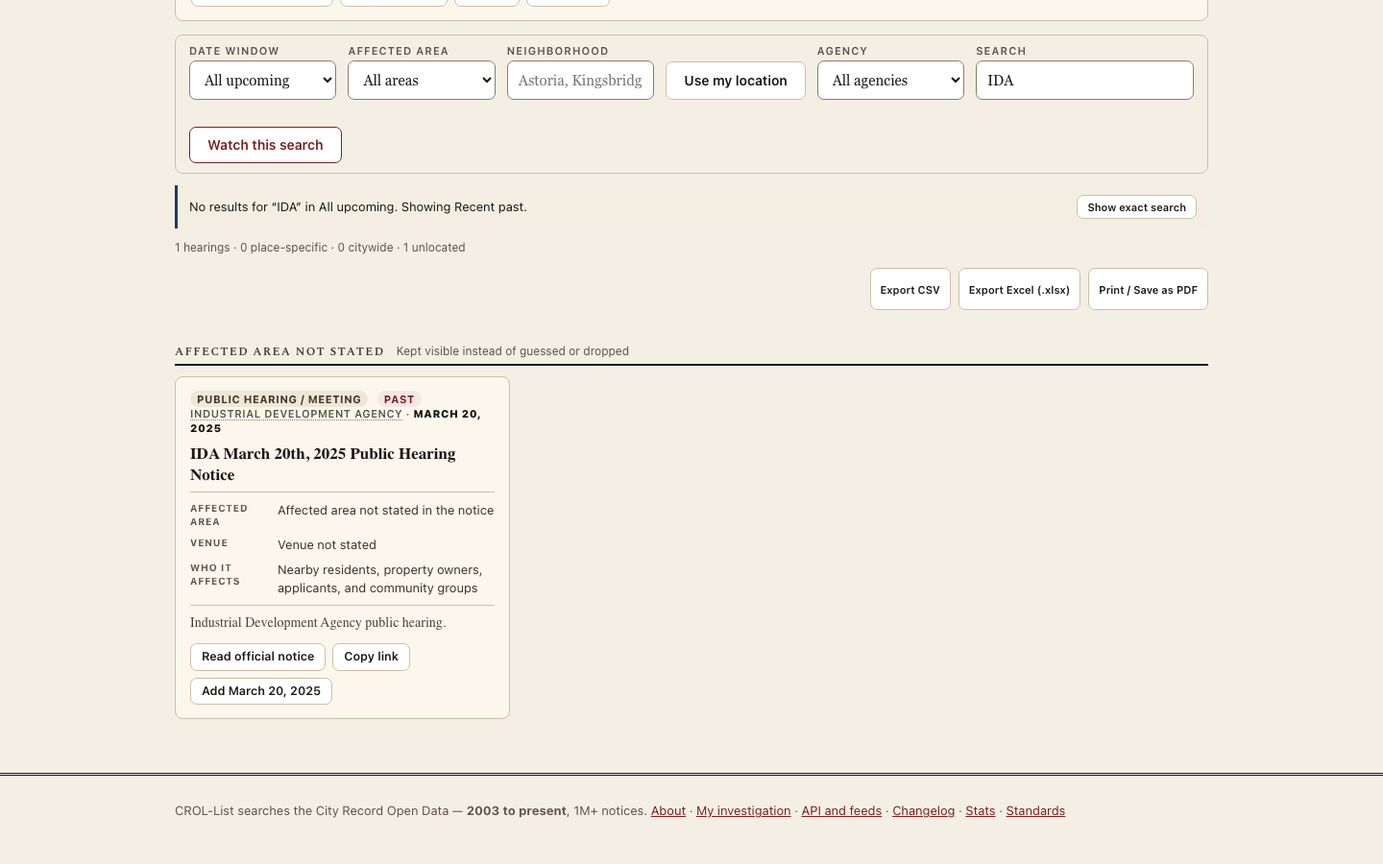
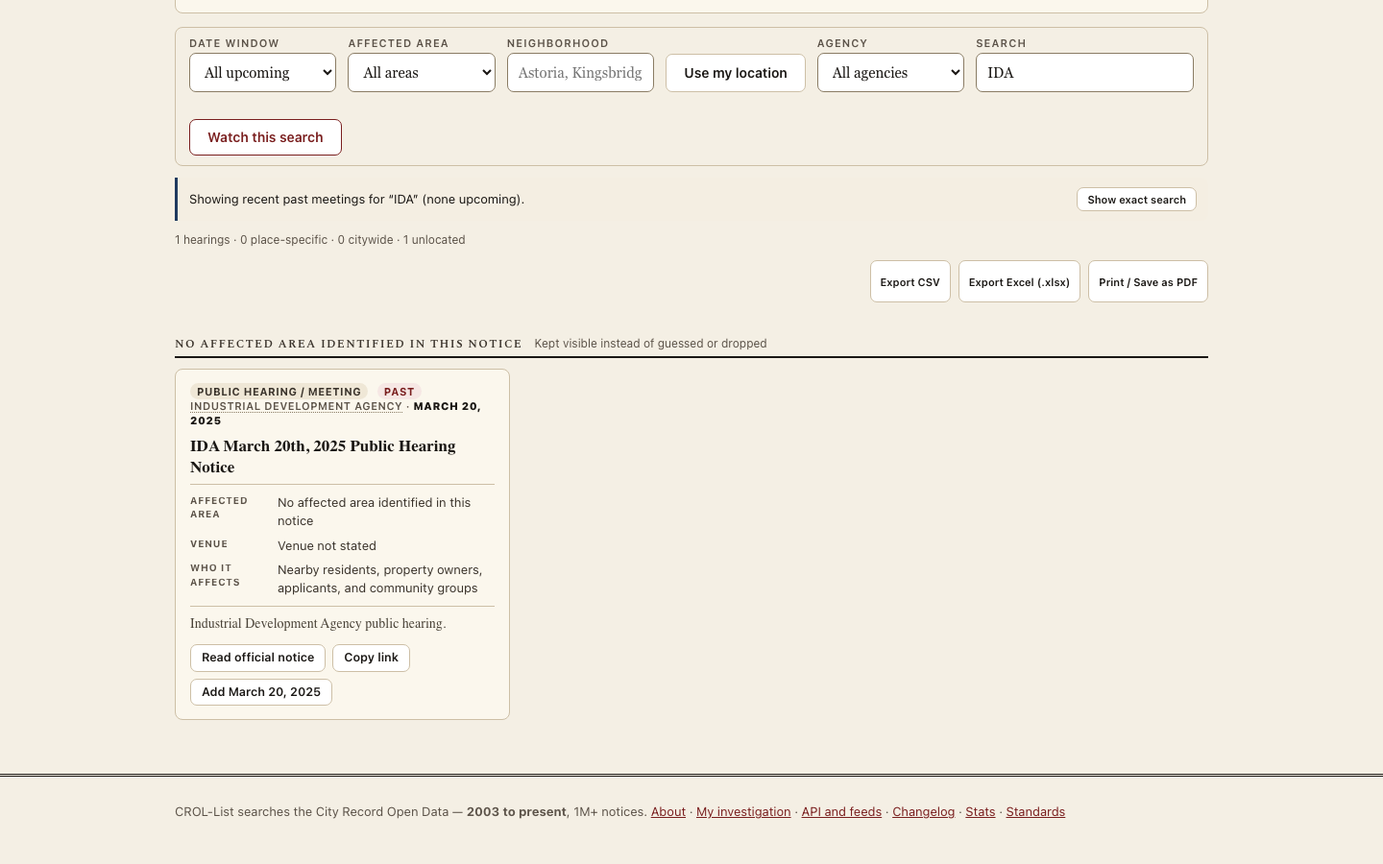
Lead widening notices with useful results

diff --git a/i18n/lang/bn.js b/i18n/lang/bn.js
@@ -33,10 +33,16 @@
     scenario_ida_past: "অতীতের IDA সভা",
     recent_past: "সাম্প্রতিক অতীত",
     this_search: "এই অনুসন্ধান",
-    meetings_widened_notice: "{original}-এ {query}-এর কোনো ফলাফল নেই। {shown} দেখানো হচ্ছে।",
+    meetings_widened_notice: "{query}-এর জন্য {shown} দেখানো হচ্ছে ({none})।",
+    meetings_shown_month: "এই মাসের সভা",
+    meetings_shown_upcoming: "আসন্ন সভা",
+    meetings_shown_past: "সাম্প্রতিক অতীতের সভা",
+    meetings_none_week: "এই সপ্তাহে কিছু নেই",
+    meetings_none_month: "এই মাসে কিছু নেই",
+    meetings_none_upcoming: "কোনো আসন্ন সভা নেই",
     show_exact_search: "সঠিক অনুসন্ধান দেখান",
     past_tag: "অতীত",
-    no_hearings_after_widening: "সাম্প্রতিক অতীতের সভা দেখার পরও কোনো মিল পাওয়া যায়নি। আরও দেখতে একটি ফিল্টার সরান।",
+    no_hearings_after_widening: "অনুসন্ধানের পরিসর বাড়ান। এই অনুসন্ধানে আসন্ন বা সাম্প্রতিক অতীতের কোনো সভা মেলেনি।",
     footer_notices: "১০ লক্ষের বেশি নোটিশ",
     sugg_money_0: "$500k-এর বেশি নির্মাণ চুক্তি",
     sugg_money_1: "আইটি পরামর্শ RFP",
@@ -234,7 +240,7 @@
     unlocated_hearings_group: "এই বিজ্ঞপ্তিতে কোনো প্রভাবিত এলাকা শনাক্ত করা যায়নি",
     unlocated_hearings_note: "অনুমান বা বাদ না দিয়ে দৃশ্যমান রাখা হয়েছে",
     hearing_results_summary: "{n}টি শুনানি · {local}টি স্থানভিত্তিক · {citywide}টি শহরব্যাপী · {unlocated}টি অবস্থানহীন",
-    no_hearings_window: "এই তারিখ ও অবস্থানের সঙ্গে কোনো শুনানি মেলেনি। পরবর্তী ৩০ দিন বা শহরব্যাপী / অবস্থানহীন বেছে দেখুন।",
+    no_hearings_window: "পরবর্তী ৩০ দিন বা শহরব্যাপী / অবস্থানহীন বেছে দেখুন। এই নির্দিষ্ট তারিখ ও এলাকায় কোনো সভা মেলেনি।",
     desc_affecting_area: " {area}-কে প্রভাবিত করে",
     near_you_area: "আপনার কাছাকাছি → {area}",
     zip_addr_neighborhood: "জিপ কোড, ঠিকানা, বা এলাকা",

diff --git a/i18n/lang/ru.js b/i18n/lang/ru.js
@@ -33,10 +33,16 @@
     scenario_ida_past: "Прошедшие заседания IDA",
     recent_past: "Недавние прошедшие",
     this_search: "этот поиск",
-    meetings_widened_notice: "Нет результатов для {query} в диапазоне {original}. Показан диапазон {shown}.",
+    meetings_widened_notice: "Показаны {shown} для {query} ({none}).",
+    meetings_shown_month: "заседания этого месяца",
+    meetings_shown_upcoming: "предстоящие заседания",
+    meetings_shown_past: "недавние прошедшие заседания",
+    meetings_none_week: "на этой неделе ничего",
+    meetings_none_month: "в этом месяце ничего",
+    meetings_none_upcoming: "предстоящих нет",
     show_exact_search: "Показать точный поиск",
     past_tag: "Прошло",
-    no_hearings_after_widening: "Подходящих заседаний не найдено даже среди недавних прошедших. Уберите фильтр, чтобы увидеть больше.",
+    no_hearings_after_widening: "Расширьте поиск. Для этого запроса нет совпадений среди предстоящих или недавних прошедших заседаний.",
     footer_notices: "более 1 млн уведомлений",
     sugg_money_0: "строительные контракты свыше $500 тыс.",
     sugg_money_1: "запросы предложений (RFP) на ИТ-консалтинг",
@@ -234,7 +240,7 @@
     unlocated_hearings_group: "В этом объявлении не удалось определить затрагиваемую территорию",
     unlocated_hearings_note: "Оставлено видимым без догадок и исключения",
     hearing_results_summary: "{n} слушаний · {local} по месту · {citywide} общегородских · {unlocated} без места",
-    no_hearings_window: "Для этой даты и места слушаний нет. Попробуйте следующие 30 дней или «Весь город / место не указано».",
+    no_hearings_window: "Попробуйте следующие 30 дней или «Весь город / место не указано». Для этой точной даты и территории совпадений нет.",
     desc_affecting_area: " затрагивающие {area}",
     near_you_area: "рядом с вами → {area}",
     zip_addr_neighborhood: "Индекс, адрес или район",

diff --git a/i18n/lang/ar.js b/i18n/lang/ar.js
@@ -35,10 +35,16 @@
     scenario_ida_past: "اجتماعات IDA السابقة",
     recent_past: "الماضي القريب",
     this_search: "هذا البحث",
-    meetings_widened_notice: "لا نتائج لـ {query} ضمن {original}. نعرض {shown}.",
+    meetings_widened_notice: "نعرض {shown} لـ {query} ({none}).",
+    meetings_shown_month: "اجتماعات هذا الشهر",
+    meetings_shown_upcoming: "الاجتماعات القادمة",
+    meetings_shown_past: "الاجتماعات السابقة الحديثة",
+    meetings_none_week: "لا شيء هذا الأسبوع",
+    meetings_none_month: "لا شيء هذا الشهر",
+    meetings_none_upcoming: "لا اجتماعات قادمة",
     show_exact_search: "عرض البحث الدقيق",
     past_tag: "سابق",
-    no_hearings_after_widening: "لم يُعثر على اجتماعات مطابقة حتى بعد مراجعة الاجتماعات السابقة الحديثة. أزل مرشحًا لرؤية المزيد.",
+    no_hearings_after_widening: "وسّع نطاق البحث. لا توجد اجتماعات مطابقة قادمة أو سابقة حديثة لهذا البحث.",
     footer_notices: "أكثر من مليون إشعار",
     sugg_money_0: "عقود إنشاءات تفوق 500 ألف دولار",
     sugg_money_1: "طلبات تقديم عروض (RFP) لاستشارات تقنية المعلومات",
@@ -237,7 +243,7 @@
     unlocated_hearings_group: "لم نحدد منطقة متأثرة في هذا الإشعار",
     unlocated_hearings_note: "أبقيناها ظاهرة بدل التخمين أو الحذف",
     hearing_results_summary: "{n} جلسات · {local} مرتبطة بمكان · {citywide} على مستوى المدينة · {unlocated} بلا موقع",
-    no_hearings_window: "لا توجد جلسات تطابق هذا التاريخ والموقع. جرّب الثلاثين يومًا القادمة أو على مستوى المدينة / بلا موقع.",
+    no_hearings_window: "جرّب الثلاثين يومًا القادمة أو على مستوى المدينة / بلا موقع. لا توجد اجتماعات مطابقة لهذا التاريخ والنطاق المحددين.",
     desc_affecting_area: " تؤثر في {area}",
     near_you_area: "بالقرب منك ← {area}",
     zip_addr_neighborhood: "الرمز البريدي أو العنوان أو الحي",

diff --git a/i18n/lang/ur.js b/i18n/lang/ur.js
@@ -35,10 +35,16 @@
     scenario_ida_past: "گزشتہ IDA میٹنگز",
     recent_past: "حالیہ ماضی",
     this_search: "یہ تلاش",
-    meetings_widened_notice: "{original} میں {query} کے لیے کوئی نتیجہ نہیں۔ {shown} دکھایا جا رہا ہے۔",
+    meetings_widened_notice: "{query} کے لیے {shown} دکھائے جا رہے ہیں ({none})۔",
+    meetings_shown_month: "اس ماہ کی میٹنگز",
+    meetings_shown_upcoming: "آنے والی میٹنگز",
+    meetings_shown_past: "حالیہ گزشتہ میٹنگز",
+    meetings_none_week: "اس ہفتے کوئی نہیں",
+    meetings_none_month: "اس ماہ کوئی نہیں",
+    meetings_none_upcoming: "کوئی آنے والی نہیں",
     show_exact_search: "عین تلاش دکھائیں",
     past_tag: "گزشتہ",
-    no_hearings_after_widening: "حالیہ گزشتہ میٹنگز دیکھنے کے بعد بھی کوئی مماثل میٹنگ نہیں ملی۔ مزید دیکھنے کے لیے ایک فلٹر ہٹائیں۔",
+    no_hearings_after_widening: "تلاش کو وسیع کریں۔ اس تلاش میں آنے والی یا حالیہ گزشتہ کوئی مماثل میٹنگ نہیں ہے۔",
     footer_notices: "10 لاکھ سے زیادہ نوٹسز",
     sugg_money_0: "$500k سے زیادہ کے تعمیراتی ٹھیکے",
     sugg_money_1: "آئی ٹی مشاورتی درخواستِ تجاویز (RFP)",
@@ -237,7 +243,7 @@
     unlocated_hearings_group: "اس نوٹس میں کوئی متاثرہ علاقہ شناخت نہیں کیا گیا",
     unlocated_hearings_note: "اندازہ لگانے یا حذف کرنے کے بجائے نمایاں رکھا گیا",
     hearing_results_summary: "{n} سماعتیں · {local} مقام سے مخصوص · {citywide} شہر بھر · {unlocated} بلا مقام",
-    no_hearings_window: "اس تاریخ اور مقام سے کوئی سماعت نہیں ملتی۔ اگلے 30 دن یا شہر بھر / بلا مقام آزمائیں۔",
+    no_hearings_window: "اگلے 30 دن یا شہر بھر / بلا مقام آزمائیں۔ اس مخصوص تاریخ اور علاقے میں کوئی مماثل میٹنگ نہیں ہے۔",
     desc_affecting_area: " جو {area} کو متاثر کرتی ہیں",
     near_you_area: "آپ کے قریب ← {area}",
     zip_addr_neighborhood: "زپ کوڈ، پتہ، یا محلہ",

diff --git a/i18n.js b/i18n.js
@@ -77,16 +77,16 @@ const SHIPPING_LANGS = ["es", "zh-Hans", "ru", "bn", "ht", "ko", "fr", "pl", "ar
 // a Polish fix never invalidates nine other dictionaries' cache entries.
 // Regenerate with: shasum -a 256 i18n/lang/<lang>.js | cut -c1-8
 const LANG_FILE_HASHES = {
-  es: "8eb0fe24",
-  "zh-Hans": "b5c9319b",
-  ru: "a37dc16e",
-  bn: "814e4e4f",
-  ht: "54370f32",
-  ko: "59742068",
-  fr: "0ab7385f",
-  pl: "0957339e",
-  ar: "619e859b",
-  ur: "275b157a",
+  es: "1ea4a30e",
+  "zh-Hans": "9a6a743d",
+  ru: "58b929d1",
+  bn: "737dfc49",
+  ht: "31dfcbb4",
+  ko: "a5d2ba96",
+  fr: "4a3050f4",
+  pl: "659a27a4",
+  ar: "9549832a",
+  ur: "22e32877",
 };
 
 
@@ -128,10 +128,16 @@ const STRINGS = {
     scenario_ida_past: "Past IDA meetings",
     recent_past: "Recent past",
     this_search: "this search",
-    meetings_widened_notice: "No results for {query} in {original}. Showing {shown}.",
+    meetings_widened_notice: "Showing {shown} for {query} ({none}).",
+    meetings_shown_month: "this month's meetings",
+    meetings_shown_upcoming: "upcoming meetings",
+    meetings_shown_past: "recent past meetings",
+    meetings_none_week: "none this week",
+    meetings_none_month: "none this month",
+    meetings_none_upcoming: "none upcoming",
     show_exact_search: "Show exact search",
     past_tag: "Past",
-    no_hearings_after_widening: "No matching meetings were found, even after checking recent past meetings. Clear a filter to see more.",
+    no_hearings_after_widening: "Try a broader search. This search has no matching upcoming or recent past meetings.",
     footer_notices: "1M+ notices",
     sugg_money_0: "construction contracts over $500k",
     sugg_money_1: "IT consulting RFPs",
@@ -354,7 +360,7 @@ const STRINGS = {
     unlocated_hearings_group: "No affected area identified in this notice",
     unlocated_hearings_note: "Kept visible instead of guessed or dropped",
     hearing_results_summary: "{n} hearings · {local} place-specific · {citywide} citywide · {unlocated} unlocated",
-    no_hearings_window: "No hearings match this date and location. Try the next 30 days or Citywide / unlocated.",
+    no_hearings_window: "Try the next 30 days or Citywide / unlocated. This exact date and area have no matching meetings.",
     desc_affecting_area: " affecting {area}",
     near_you_area:       "near you → {area}",
     zip_addr_neighborhood: "ZIP or place",

diff --git a/i18n/lang/zh-Hans.js b/i18n/lang/zh-Hans.js
@@ -33,10 +33,16 @@
     scenario_ida_past: "\u8fc7\u53bb\u7684 IDA \u4f1a\u8bae",
     recent_past: "\u8fd1\u671f\u5df2\u7ed3\u675f",
     this_search: "\u6b64\u641c\u7d22",
-    meetings_widened_notice: "\u5728 {original} \u4e2d\u672a\u627e\u5230 {query} \u7684\u7ed3\u679c\u3002\u6b63\u5728\u663e\u793a {shown}\u3002",
+    meetings_widened_notice: "\u6b63\u5728\u663e\u793a{query}\u7684{shown}\uff08{none}\uff09\u3002",
+    meetings_shown_month: "\u672c\u6708\u4f1a\u8bae",
+    meetings_shown_upcoming: "\u5373\u5c06\u4e3e\u884c\u7684\u4f1a\u8bae",
+    meetings_shown_past: "\u8fd1\u671f\u5df2\u7ed3\u675f\u7684\u4f1a\u8bae",
+    meetings_none_week: "\u672c\u5468\u6ca1\u6709",
+    meetings_none_month: "\u672c\u6708\u6ca1\u6709",
+    meetings_none_upcoming: "\u6ca1\u6709\u5373\u5c06\u4e3e\u884c\u7684\u4f1a\u8bae",
     show_exact_search: "\u663e\u793a\u7cbe\u786e\u641c\u7d22",
     past_tag: "\u5df2\u7ed3\u675f",
-    no_hearings_after_widening: "\u5373\u4f7f\u68c0\u67e5\u4e86\u8fd1\u671f\u5df2\u7ed3\u675f\u7684\u4f1a\u8bae\uff0c\u4e5f\u672a\u627e\u5230\u5339\u914d\u7684\u4f1a\u8bae\u3002\u6e05\u9664\u4e00\u4e2a\u7b5b\u9009\u6761\u4ef6\u53ef\u67e5\u770b\u66f4\u591a\u7ed3\u679c\u3002",
+    no_hearings_after_widening: "\u8bf7\u6269\u5927\u641c\u7d22\u8303\u56f4\u3002\u6b64\u641c\u7d22\u5728\u5373\u5c06\u4e3e\u884c\u548c\u8fd1\u671f\u5df2\u7ed3\u675f\u7684\u4f1a\u8bae\u4e2d\u5747\u65e0\u5339\u914d\u9879\u3002",
     footer_notices: "100 万+ 条通告",
     sugg_money_0: "50 万美元以上的建筑合同",
     sugg_money_1: "IT 咨询征求建议书 (RFP)",
@@ -234,7 +240,7 @@
     unlocated_hearings_group: "本公告中未识别出受影响区域",
     unlocated_hearings_note: "保留显示，不猜测也不删除",
     hearing_results_summary: "{n} 场听证会 · {local} 场特定地点 · {citywide} 场全市 · {unlocated} 场无法定位",
-    no_hearings_window: "此日期和地点没有匹配的听证会。请尝试未来 30 天或“全市 / 无法定位”。",
+    no_hearings_window: "\u8bf7\u5c1d\u8bd5\u672a\u6765 30 \u5929\u6216\u201c\u5168\u5e02 / \u65e0\u6cd5\u5b9a\u4f4d\u201d\u3002\u6b64\u786e\u5207\u65e5\u671f\u548c\u533a\u57df\u6ca1\u6709\u5339\u914d\u7684\u4f1a\u8bae\u3002",
     desc_affecting_area: " 影响 {area}",
     near_you_area: "您附近 → {area}",
     zip_addr_neighborhood: "邮编、地址或社区",

diff --git a/i18n/lang/ko.js b/i18n/lang/ko.js
@@ -33,10 +33,16 @@
     scenario_ida_past: "지난 IDA 회의",
     recent_past: "최근 지난 일정",
     this_search: "이 검색",
-    meetings_widened_notice: "{original}에서 {query}에 대한 결과가 없습니다. {shown}을 표시합니다.",
+    meetings_widened_notice: "{query}에 대해 {shown}을 표시합니다({none}).",
+    meetings_shown_month: "이번 달 회의",
+    meetings_shown_upcoming: "예정된 회의",
+    meetings_shown_past: "최근 지난 회의",
+    meetings_none_week: "이번 주에는 없음",
+    meetings_none_month: "이번 달에는 없음",
+    meetings_none_upcoming: "예정된 회의 없음",
     show_exact_search: "정확한 검색 보기",
     past_tag: "지난 일정",
-    no_hearings_after_widening: "최근 지난 회의까지 확인했지만 일치하는 회의가 없습니다. 필터를 하나 지우면 더 볼 수 있습니다.",
+    no_hearings_after_widening: "검색 범위를 넓혀 보세요. 이 검색에는 예정된 회의나 최근 지난 회의 중 일치하는 항목이 없습니다.",
     footer_notices: "100만 건 이상의 공고",
     sugg_money_0: "50만 달러 이상의 건설 계약",
     sugg_money_1: "IT 컨설팅 제안요청서 (RFP)",
@@ -234,7 +240,7 @@
     unlocated_hearings_group: "이 공고에서 영향 지역을 확인하지 못했습니다",
     unlocated_hearings_note: "추측하거나 제외하지 않고 표시",
     hearing_results_summary: "공청회 {n}건 · 장소별 {local}건 · 시 전체 {citywide}건 · 위치 미상 {unlocated}건",
-    no_hearings_window: "이 날짜와 위치에 맞는 공청회가 없습니다. 향후 30일 또는 시 전체 / 위치 미상을 선택해 보세요.",
+    no_hearings_window: "향후 30일 또는 시 전체 / 위치 미상을 선택해 보세요. 이 정확한 날짜와 지역에는 일치하는 회의가 없습니다.",
     desc_affecting_area: " {area}에 영향",
     near_you_area: "내 주변 → {area}",
     zip_addr_neighborhood: "우편번호, 주소 또는 동네",

diff --git a/i18n/lang/fr.js b/i18n/lang/fr.js
@@ -37,10 +37,16 @@
     scenario_ida_past: "Réunions passées de l’IDA",
     recent_past: "Passé récent",
     this_search: "cette recherche",
-    meetings_widened_notice: "Aucun résultat pour {query} dans {original}. Affichage de {shown}.",
+    meetings_widened_notice: "Affichage de {shown} pour {query} ({none}).",
+    meetings_shown_month: "réunions de ce mois",
+    meetings_shown_upcoming: "prochaines réunions",
+    meetings_shown_past: "réunions passées récentes",
+    meetings_none_week: "aucune cette semaine",
+    meetings_none_month: "aucune ce mois-ci",
+    meetings_none_upcoming: "aucune à venir",
     show_exact_search: "Afficher la recherche exacte",
     past_tag: "Passé",
-    no_hearings_after_widening: "Aucune réunion correspondante, même après vérification des réunions passées récentes. Supprimez un filtre pour en voir plus.",
+    no_hearings_after_widening: "Élargissez la recherche. Cette recherche ne correspond à aucune réunion à venir ou passée récente.",
     footer_notices: "plus d'un million d'avis",
     sugg_money_0: "contrats de construction de plus de 500 000 $",
     sugg_money_1: "demandes de propositions (RFP) de conseil en TI",
@@ -263,7 +269,7 @@
     unlocated_hearings_group: "Aucune zone concernée n’a été identifiée dans cet avis",
     unlocated_hearings_note: "Conservée plutôt que devinée ou supprimée",
     hearing_results_summary: "{n} audiences · {local} liées à un lieu · {citywide} à l’échelle de la ville · {unlocated} sans lieu",
-    no_hearings_window: "Aucune audience ne correspond à cette date et à ce lieu. Essayez les 30 prochains jours ou Toute la ville / sans lieu.",
+    no_hearings_window: "Essayez les 30 prochains jours ou Toute la ville / sans lieu. Cette date et cette zone précises ne correspondent à aucune réunion.",
     desc_affecting_area: " concernant {area}",
     near_you_area:       "près de chez vous → {area}",
     zip_addr_neighborhood: "Code postal, adresse ou quartier",

diff --git a/i18n/lang/es.js b/i18n/lang/es.js
@@ -33,10 +33,16 @@
     scenario_ida_past: "Reuniones pasadas de la IDA",
     recent_past: "Pasado reciente",
     this_search: "esta búsqueda",
-    meetings_widened_notice: "No hubo resultados para {query} en {original}. Se muestra {shown}.",
+    meetings_widened_notice: "Mostrando {shown} para {query} ({none}).",
+    meetings_shown_month: "las reuniones de este mes",
+    meetings_shown_upcoming: "las próximas reuniones",
+    meetings_shown_past: "reuniones recientes ya celebradas",
+    meetings_none_week: "ninguna esta semana",
+    meetings_none_month: "ninguna este mes",
+    meetings_none_upcoming: "ninguna próxima",
     show_exact_search: "Mostrar búsqueda exacta",
     past_tag: "Pasado",
-    no_hearings_after_widening: "No se encontraron reuniones, incluso después de revisar reuniones pasadas recientes. Quite un filtro para ver más.",
+    no_hearings_after_widening: "Amplíe la búsqueda. Esta búsqueda no tiene reuniones próximas ni recientes ya celebradas que coincidan.",
     footer_notices: "más de un millón de avisos",
     sugg_money_0: "contratos de construcción de más de $500k",
     sugg_money_1: "solicitudes de propuestas de consultoría informática",
@@ -234,7 +240,7 @@
     unlocated_hearings_group: "No se identificó ningún área afectada en este aviso",
     unlocated_hearings_note: "Se mantiene visible en vez de adivinarla u omitirla",
     hearing_results_summary: "{n} audiencias · {local} específicas de un lugar · {citywide} de toda la ciudad · {unlocated} sin ubicación",
-    no_hearings_window: "Ninguna audiencia coincide con esta fecha y ubicación. Pruebe los próximos 30 días o Toda la ciudad / sin ubicación.",
+    no_hearings_window: "Pruebe los próximos 30 días o Toda la ciudad / sin ubicación. Esta fecha y zona exactas no tienen reuniones que coincidan.",
     desc_affecting_area: " que afectan a {area}",
     near_you_area: "cerca de ti → {area}",
     zip_addr_neighborhood: "Código postal, dirección o vecindario",

diff --git a/i18n/lang/pl.js b/i18n/lang/pl.js
@@ -41,10 +41,16 @@
     scenario_ida_past: "Minione spotkania IDA",
     recent_past: "Niedawno minione",
     this_search: "to wyszukiwanie",
-    meetings_widened_notice: "Brak wyników dla {query} w zakresie {original}. Pokazano {shown}.",
+    meetings_widened_notice: "Wyświetlamy {shown} dla {query} ({none}).",
+    meetings_shown_month: "spotkania w tym miesiącu",
+    meetings_shown_upcoming: "nadchodzące spotkania",
+    meetings_shown_past: "niedawno zakończone spotkania",
+    meetings_none_week: "brak w tym tygodniu",
+    meetings_none_month: "brak w tym miesiącu",
+    meetings_none_upcoming: "brak nadchodzących",
     show_exact_search: "Pokaż dokładne wyszukiwanie",
     past_tag: "Minione",
-    no_hearings_after_widening: "Nie znaleziono pasujących spotkań nawet po sprawdzeniu niedawno minionych. Usuń filtr, aby zobaczyć więcej.",
+    no_hearings_after_widening: "Rozszerz wyszukiwanie. To wyszukiwanie nie ma pasujących nadchodzących ani niedawno zakończonych spotkań.",
     footer_notices: "ponad 1 mln ogłoszeń",
     sugg_money_0: "kontrakty budowlane powyżej 500 tys. USD",
     sugg_money_1: "Zapytania ofertowe (RFP) na doradztwo IT",
@@ -242,7 +248,7 @@
     unlocated_hearings_group: "W tym ogłoszeniu nie udało się ustalić obszaru, którego dotyczy",
     unlocated_hearings_note: "Pozostaje widoczne zamiast zgadywania lub pomijania",
     hearing_results_summary: "{n} wysłuchań · {local} lokalnych · {citywide} ogólnomiejskich · {unlocated} bez lokalizacji",
-    no_hearings_window: "Brak wysłuchań dla tej daty i lokalizacji. Spróbuj następnych 30 dni lub Całe miasto / brak lokalizacji.",
+    no_hearings_window: "Spróbuj następnych 30 dni lub Całe miasto / brak lokalizacji. Dla tej dokładnej daty i obszaru nie ma pasujących spotkań.",
     desc_affecting_area: " dotyczące {area}",
     near_you_area: "w pobliżu → {area}",
     zip_addr_neighborhood: "Kod pocztowy, adres lub okolica",

diff --git a/i18n/lang/ht.js b/i18n/lang/ht.js
@@ -32,10 +32,16 @@
     scenario_ida_past: "Reyinyon IDA ki pase",
     recent_past: "Sa ki fèk pase",
     this_search: "rechèch sa a",
-    meetings_widened_notice: "Pa gen rezilta pou {query} nan {original}. N ap montre {shown}.",
+    meetings_widened_notice: "N ap montre {shown} pou {query} ({none}).",
+    meetings_shown_month: "reyinyon mwa sa a",
+    meetings_shown_upcoming: "reyinyon k ap vini yo",
+    meetings_shown_past: "reyinyon ki fèk pase yo",
+    meetings_none_week: "pa gen okenn semèn sa a",
+    meetings_none_month: "pa gen okenn mwa sa a",
+    meetings_none_upcoming: "pa gen okenn k ap vini",
     show_exact_search: "Montre rechèch egzak la",
     past_tag: "Pase",
-    no_hearings_after_widening: "Nou pa jwenn reyinyon ki koresponn, menm apre nou tcheke sa ki fèk pase yo. Retire yon filtè pou wè plis.",
+    no_hearings_after_widening: "Elaji rechèch la. Rechèch sa a pa jwenn okenn reyinyon k ap vini oswa ki fèk pase.",
     footer_notices: "plis pase 1 milyon avi",
     sugg_money_0: "kontra konstriksyon plis pase $500k",
     sugg_money_1: "Demann Pwopozisyon (RFP) pou konsèy enfòmatik",
@@ -233,7 +239,7 @@
     unlocated_hearings_group: "Nou pa idantifye okenn zòn ki afekte nan avi sa a",
     unlocated_hearings_note: "Li rete vizib olye nou devine oswa retire li",
     hearing_results_summary: "{n} odyans · {local} pou yon kote · {citywide} pou tout vil la · {unlocated} san kote",
-    no_hearings_window: "Pa gen odyans ki koresponn ak dat ak kote sa a. Eseye 30 jou k ap vini yo oswa Tout vil la / san kote.",
+    no_hearings_window: "Eseye 30 jou k ap vini yo oswa Tout vil la / san kote. Dat ak zòn egzak sa yo pa gen reyinyon ki koresponn.",
     desc_affecting_area: " ki afekte {area}",
     near_you_area: "toupre ou → {area}",
     zip_addr_neighborhood: "Kòd postal, adrès, oswa katye",

diff --git a/index.html b/index.html
@@ -553,7 +553,7 @@
 </style>
 <!-- Leaflet is lazy-loaded by loadLeaflet() on first Land-lens use — ~150KB of parse-blocking
      JS for a map most visits never open has no business on the critical path. -->
-<script src="i18n.js?v=5dd8e8e2"></script>
+<script src="i18n.js?v=89314d44"></script>
 <script defer src="analytics.js?v=1.2.0"></script>
 <script src="nl_parse.js"></script>
 <script src="nl_deeplink.js"></script>
@@ -3957,16 +3957,22 @@ function hearingFilterKey(filter){
     filter.locationScope, filter.neighborhood,
   ]);
 }
-function hearingScopeLabel(scope){
-  return t(scope==="week"?"this_week":scope==="month"?"next_30_days":scope==="past"?"recent_past":"all_upcoming");
+function hearingWidenedShown(scope){
+  const key=scope==="month"?"meetings_shown_month":scope==="past"?"meetings_shown_past":"meetings_shown_upcoming";
+  return t(key);
+}
+function hearingWidenedNone(selection){
+  const scope=selection.scope==="past"?"upcoming":selection.requested;
+  const key=scope==="week"?"meetings_none_week":scope==="month"?"meetings_none_month":"meetings_none_upcoming";
+  return t(key);
 }
 function hearingWideningHTML(selection, filter){
   if(!selection.widened) return "";
   const query=filter.keyword ? `“${escUiHtml(filter.keyword)}”` : t("this_search");
   return `<div class="note widening-note" role="status"><span>${t("meetings_widened_notice",{
     query,
-    original:hearingScopeLabel(selection.requested),
-    shown:hearingScopeLabel(selection.scope),
+    shown:hearingWidenedShown(selection.scope),
+    none:hearingWidenedNone(selection),
   })}</span><button type="button" class="mini" data-remove-widening>${t("show_exact_search")}</button></div>`;
 }
 async function loadPastHearings(filter){
